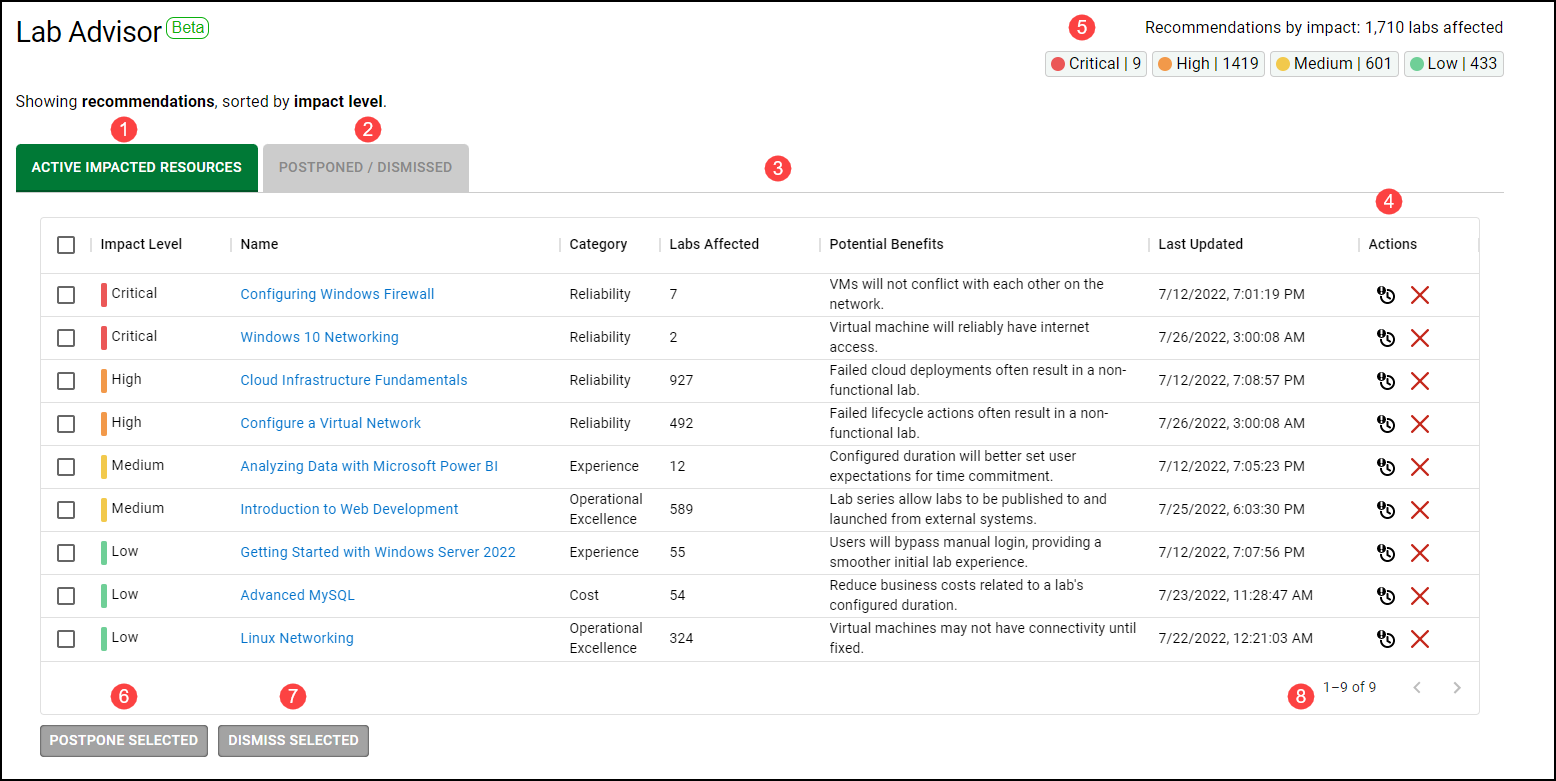
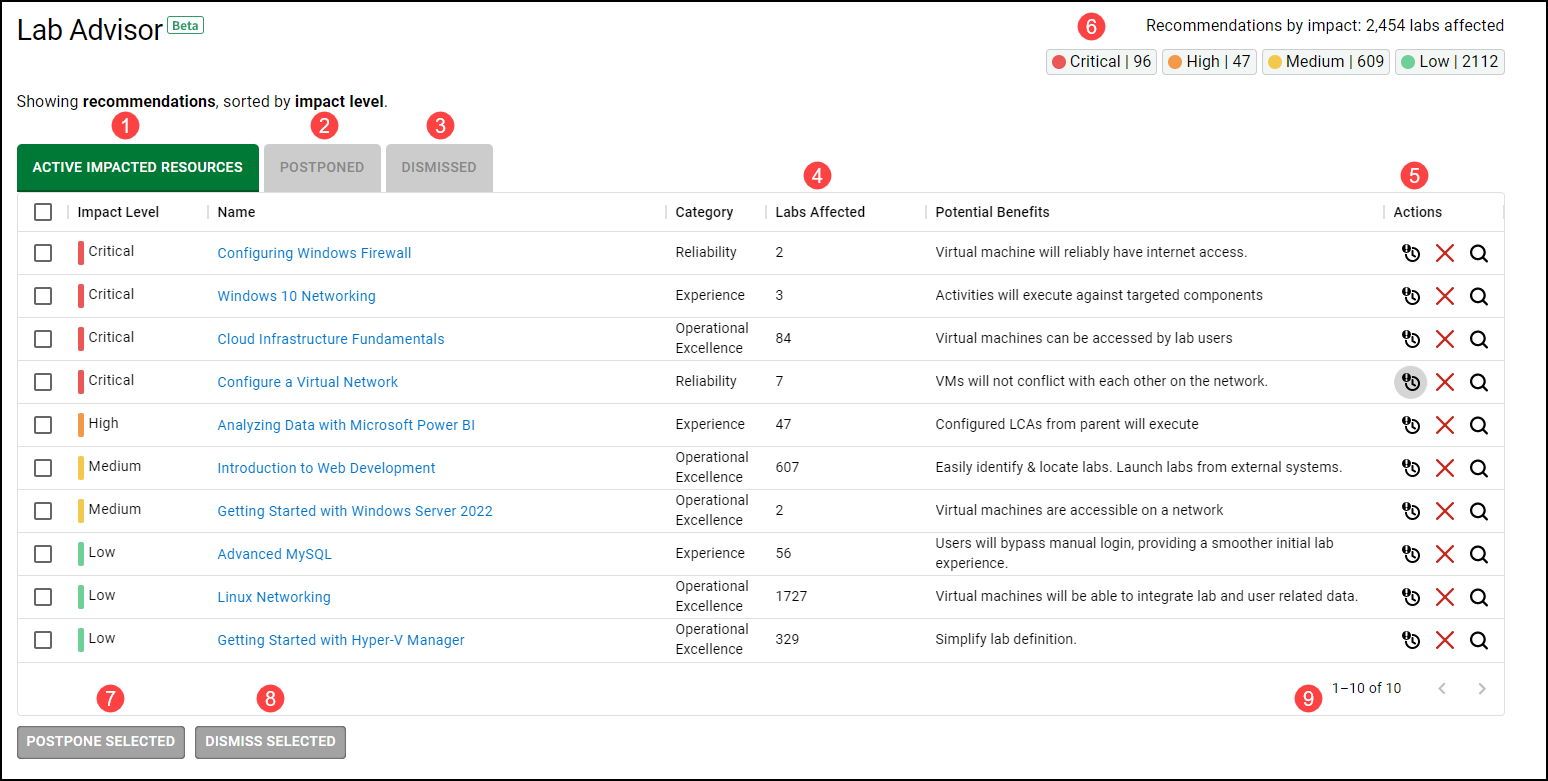
updated docs for 9-8 deployment
- updated lab-advisor.md
- updated vm-profiles.md

diff --git a/lod/lab-advisor.md b/lod/lab-advisor.md
@@ -22,15 +22,19 @@ Lab Advisor is accessed from your Skillable Studio dashboard.
 
 1. **Active Impacted Resources**: This tab toggles the view to show active impacted resources. 
 
-1. **Postponed/Dismissed**: This tab toggles the view to show resources that have been postponed or dismissed from the active impacted resources tab.
+1. **Postponed**: This tab toggles the view to show resources that have been postponed from the active impacted resources tab.
+
+1. **Dismissed**: This tab toggles the view to show resources that have been dismissed from the active impacted resources tab.
 
 1. **Recommendations**: Recommendations found by the Lab Advisor will be displayed here. Recommendations are sorted by impact level, and provide relevant information such as the number of labs affected, the potential benefits of the recommendation, and the last date the resource was updated. Selecting the name of a lab profile will allow you to remediate a recommendation.
 
 1. **Actions**: If you do not wish to remediate the recommendation, there are two actions available: 
 
-    - **Postpone**: Selecting the postpone option will move the recommendation to the _Postponed/Dismissed_ tab. Once it is moved, it will stay behind that tab for 7 days. After 7 days has elapsed, the recommendation will be moved back to the _Active Impacted Resources_ tab. 
+    - **Postpone**: Selecting the postpone option will move the recommendation to the _Postponed_ tab. Once it is moved, it will stay behind that tab for 7 days. After 7 days has elapsed, the recommendation will be moved back to the _Active Impacted Resources_ tab. 
 
-    - **Dismiss**: Selecting the dismiss option will move the recommendation to the _Postponed/Dismissed_ tab. Once it is moved, it will stay behind that tab indefinitely, unless you select the option on the Dismissed tab to bring it back to the _Active Impacted Resources_ tab. 
+    - **Dismiss**: Selecting the dismiss option will move the recommendation to the _Dismissed_ tab. Once it is moved, it will stay behind that tab indefinitely, unless you select the option on the Dismissed tab to bring it back to the _Active Impacted Resources_ tab. 
+
+    - **View Recommendation Details**: Selecting this option will navigate to the remediation page, where recommendation information will be displayed for issues found by Lab Advisor. 
 
 1. **Recommendations by Impact**: This displays the number of all resources that are affected by recommendations found by the Lab Advisor. These are sorted from critical to low, with a numeric value that represents the number of affected resources for each impact level. 
 
@@ -48,7 +52,7 @@ To remediate a recommendation, perform the following steps:
 
     The next page will show all lab profiles that are affected by the recommendation.
 
-    ![Remediate Recommendatin](images/remediate-recommendatin.png)
+    ![Remediate Recommendatoin](images/remediate-recommendation.png)
 
 1. Select the **lab profile** that you wish to remediate, by clicking on the link in the Lab Profile column.
 

diff --git a/lod/vm-profiles.md b/lod/vm-profiles.md
@@ -176,9 +176,8 @@ To create a Virtual Machine profile, click **Create Virtual Machine profile** fr
     - **Screen Height**: Enter the screen height that the VM will use, measured in pixels.
 
     - **Enabled**: Check to enable the VM profile for use in lab profiles.
-<!--
+
     - **Enable Dynamic Screen Resizing**: Allows the VM to automatically resize it's resolution based on the size of the lab window. It is, however, limited to the resolution options available in the display settings of Windows. If the lab window is larger than the VM, there will be a gray space around the VM in the lab window. NOTE: this requires Integration services to be installed on the VM. This can be installed by clicking the gear icon at the top of a launched lab, and selecting _Install Integration Services_ and following the prompts.
--->
 
 ### Hard Disks
 
